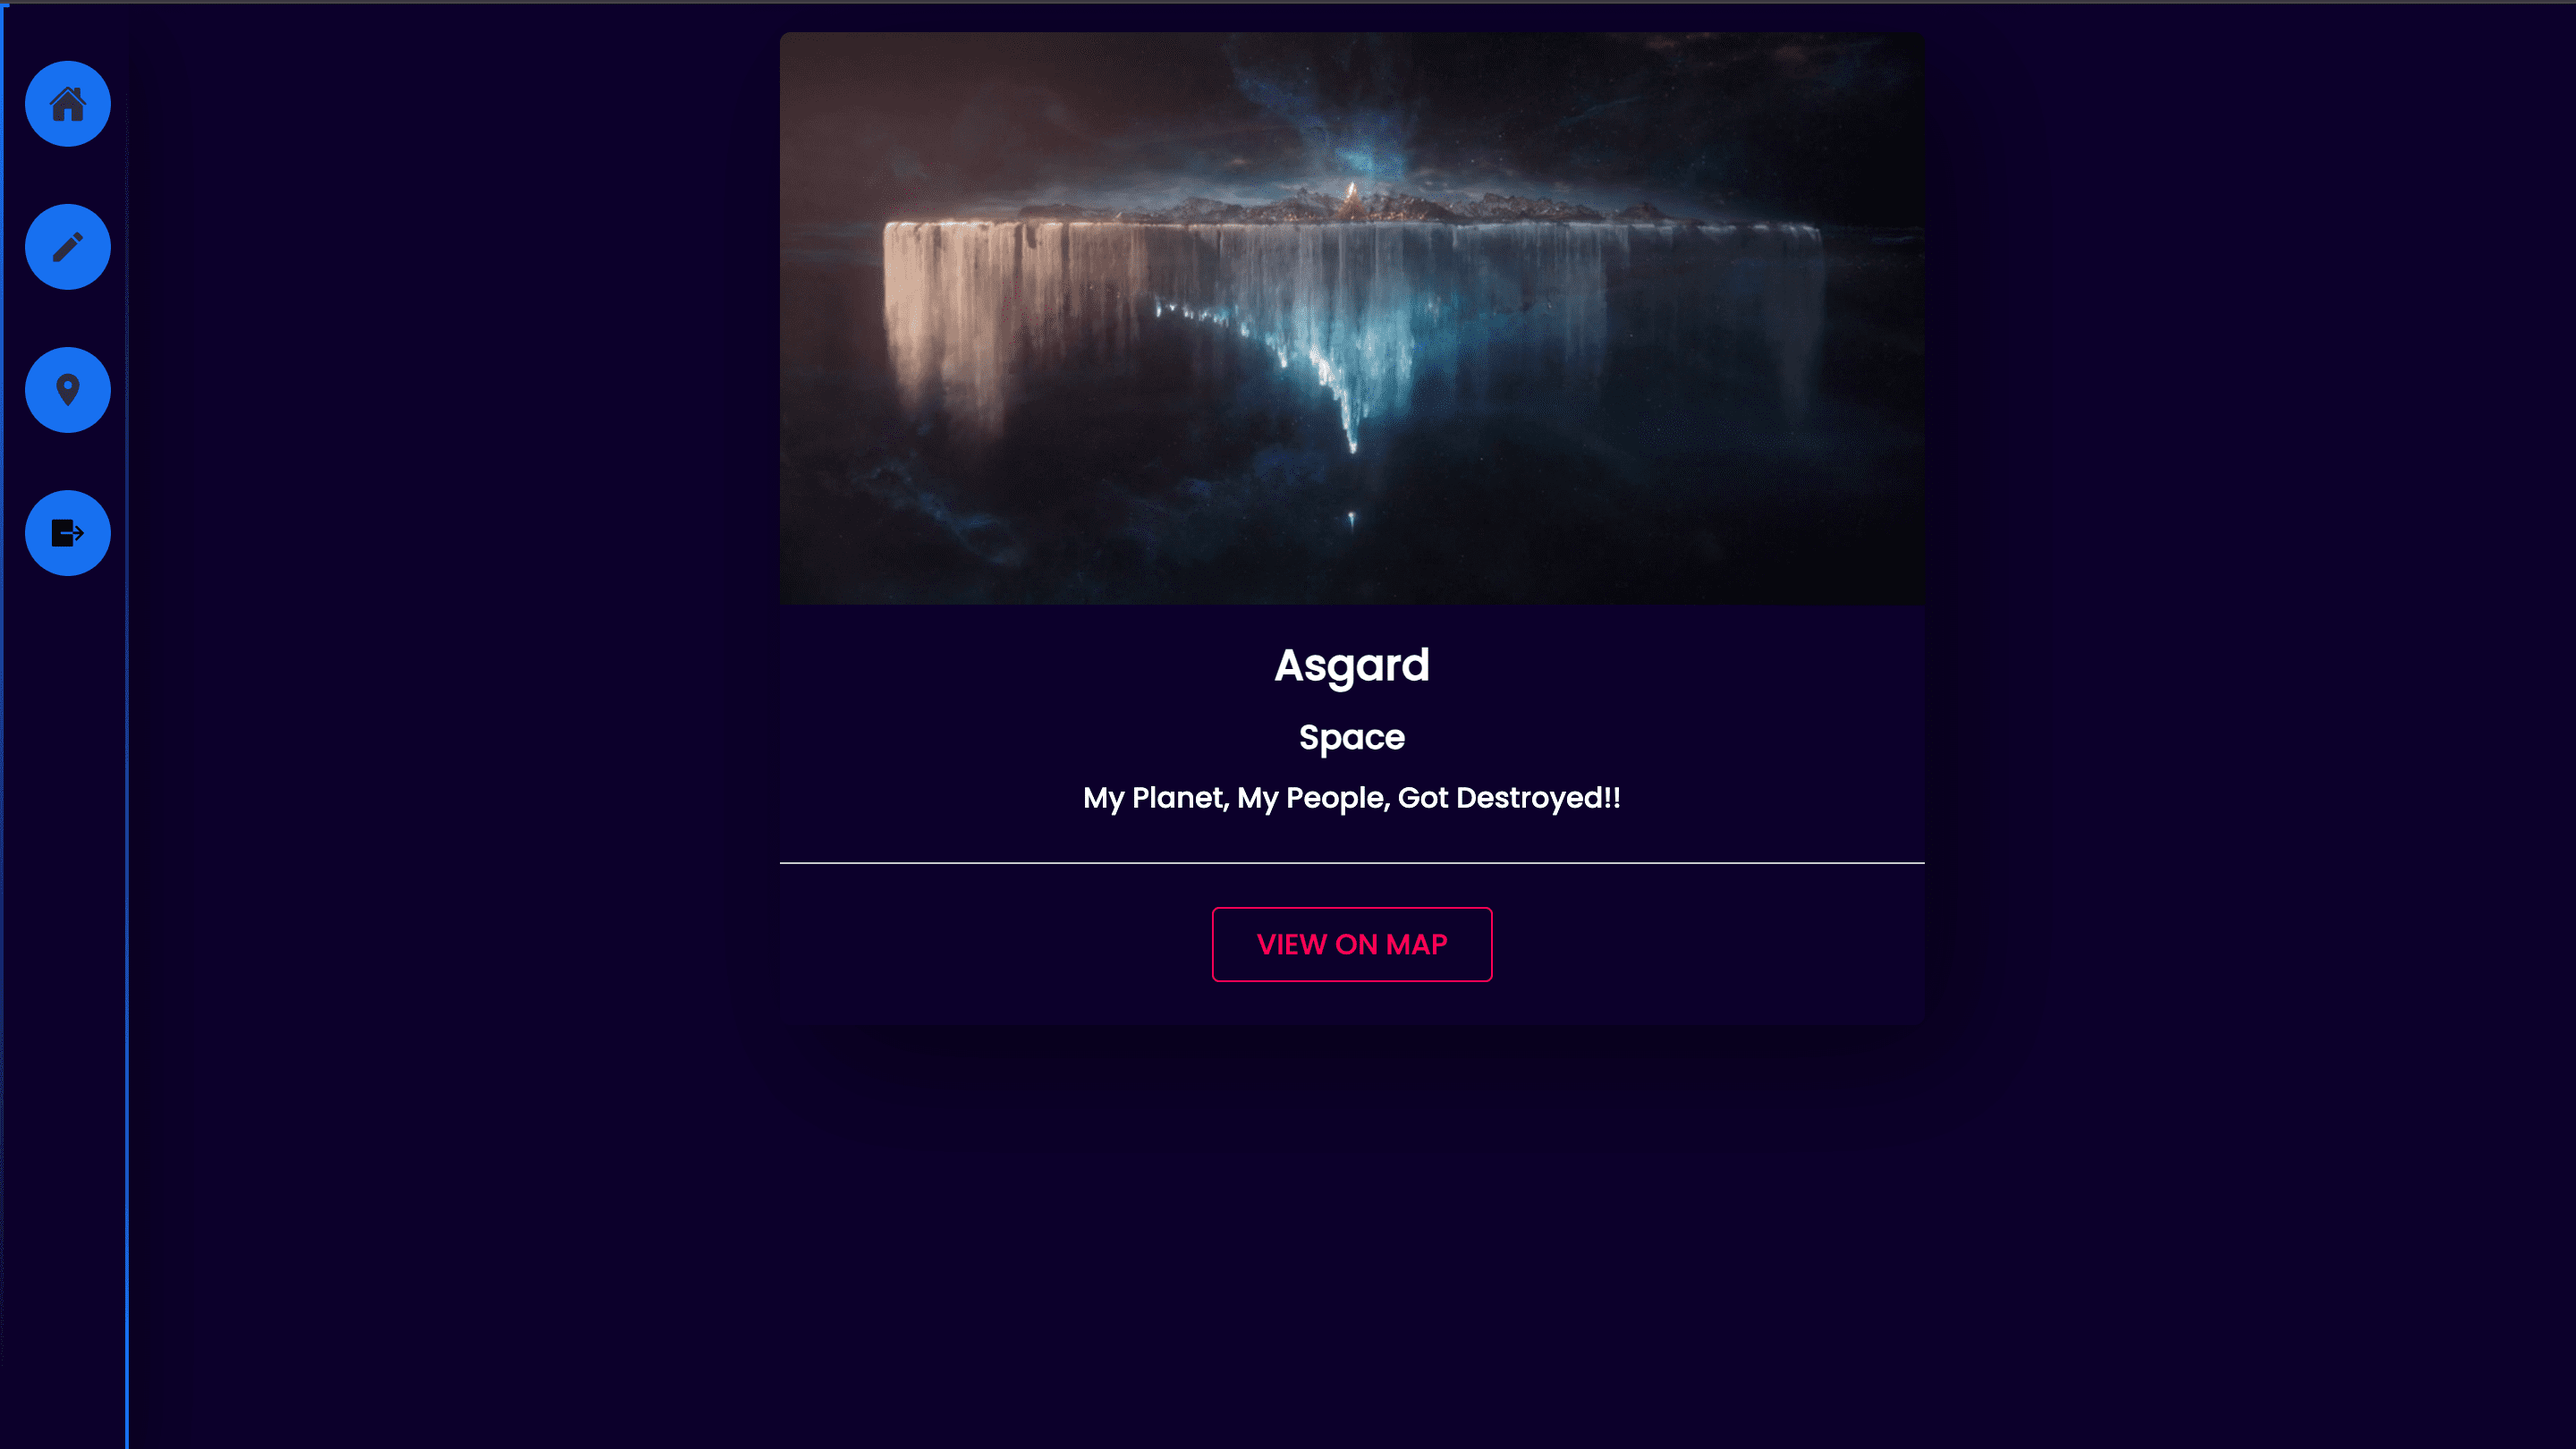
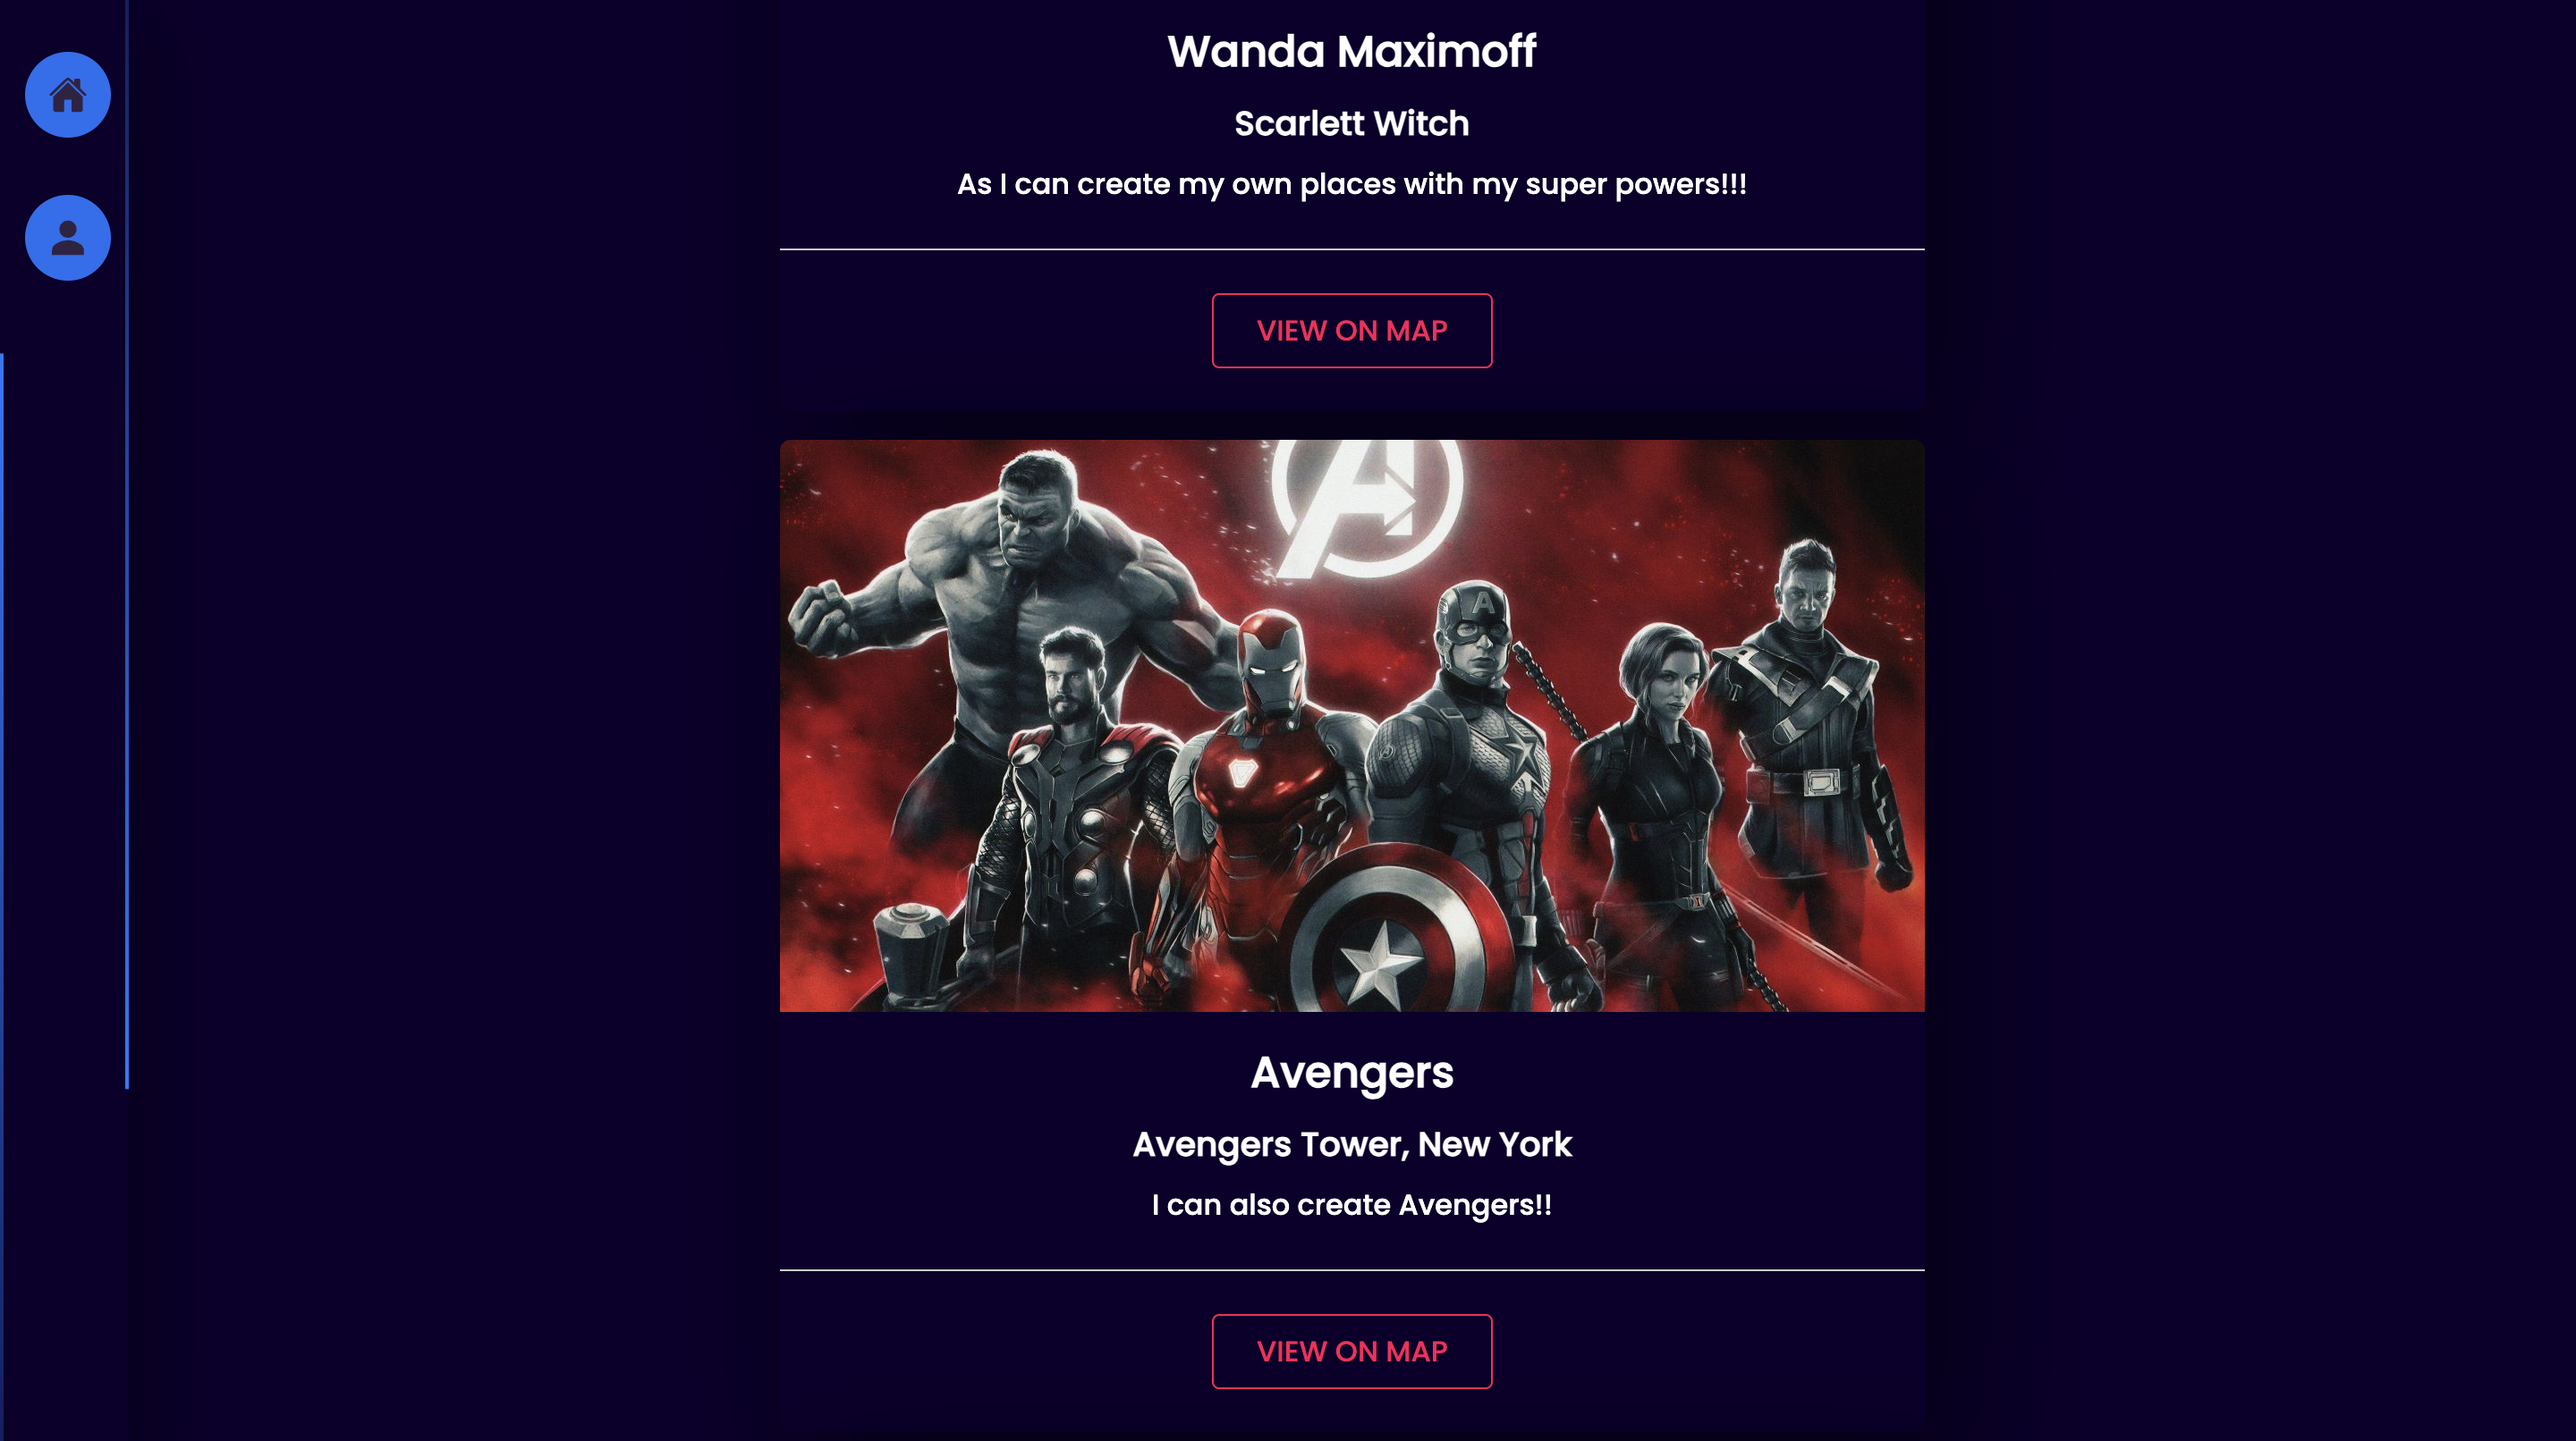
CSS Refactoring - Updated Projects

diff --git a/src/components/Projects/styles.css b/src/components/Projects/styles.css
@@ -1,0 +1,120 @@
+.projects {
+  display: flex;
+  flex-direction: column;
+  place-items: center;
+  gap: 2.4rem;
+  padding-top: 4rem;
+  padding-bottom: 4rem;
+}
+
+.projects h1 {
+  color: #102a42;
+  font-family: "Roboto", sans-serif;
+  font-size: 2.4rem;
+  letter-spacing: 2.4px;
+  text-decoration: underline #2caeba 0.3rem;
+  text-underline-offset: 0.7rem;
+  margin-bottom: 20px;
+}
+
+.projects-grid {
+  display: flex;
+  flex-direction: column;
+  place-items: center;
+  gap: 50px;
+}
+
+.project {
+  display: flex;
+  flex-direction: row;
+  width: 90%;
+}
+
+.reverse-flex {
+  flex-direction: row-reverse;
+}
+
+.project-img {
+  display: block;
+  object-fit: cover;
+  max-width: 800px;
+}
+
+.project-info {
+  background-color: white;
+  padding: 1rem 2rem;
+  display: flex;
+  flex-direction: column;
+  justify-content: center;
+}
+
+.project-info h2 {
+  color: #102a42;
+  font-family: "Josefin Sans", sans-serif;
+  font-size: 1.8rem;
+  line-height: 3rem;
+  text-align: center;
+}
+
+.project-info p {
+  color: #324d67;
+  font-family: "Open Sans", sans-serif;
+  margin-top: 1.5rem;
+  margin-bottom: 0.5rem;
+  font-size: 1.2rem;
+  text-align: justify;
+}
+
+.tech-used {
+  margin-top: 0.75rem;
+  display: flex;
+  flex-direction: row;
+  flex-wrap: wrap;
+  justify-content: flex-start;
+  gap: 1rem;
+  width: 100%;
+}
+
+.tech {
+  background-color: #dae2ec;
+  color: #617d98;
+  padding: 0.25rem 0.5rem;
+  font-family: "Open Sans", sans-serif;
+  letter-spacing: 1px;
+  border-radius: 0.3rem;
+  text-align: center;
+  width: fit-content;
+}
+
+.code-links {
+  display: flex;
+  gap: 1rem;
+  margin-top: 1rem;
+  font-size: 1.5rem;
+}
+
+.code-link {
+  color: #2caeba;
+  transition: all 0.3s ease;
+}
+
+.code-link:hover {
+  color: #222222;
+}
+
+@media (max-width: 900px) {
+  .project {
+    flex-direction: column;
+    width: 90%;
+  }
+
+  .project-img {
+    width: 100%;
+    max-width: 400px;
+  }
+
+  .project-info p {
+    margin-top: 0.9rem;
+    margin-bottom: 0.3rem;
+  }
+}

diff --git a/src/index.css b/src/index.css
@@ -2,8 +2,10 @@
 
 /* font-family: "Roboto", sans-serif; */
 /* font-family: "Open Sans", sans-serif; */
+/* font-family: "Josefin Sans", sans-serif; */
 
 @import url("https://fonts.googleapis.com/css?family=Open+Sans|Roboto:400,700&display=swap");
+@import url("https://fonts.googleapis.com/css2?family=Josefin+Sans:ital,wght@0,100..700;1,100..700&display=swap");
 
 * {
   box-sizing: border-box;
@@ -74,3 +76,67 @@ body {
   font-size: 1.5rem;
 }
 /* Error Page */
+
+/* Contact Page */
+.contact {
+  display: grid;
+  place-items: center;
+  padding: 5rem 0;
+}
+.contact-form {
+  background: white;
+  border-radius: 0.3rem;
+  text-align: center;
+  width: 90vw;
+  max-width: 35rem;
+  padding: 1.25rem 0.75rem;
+}
+.contact-form h3 {
+  color: #617d98;
+  font-family: "Roboto", sans-serif;
+  font-size: 2rem;
+  margin-bottom: 1rem;
+  letter-spacing: 2px;
+}
+.form-group {
+  padding-top: 1rem 1.5rem;
+}
+.form-control {
+  display: block;
+  width: 100%;
+  padding: 0.75rem 1rem;
+  border: none;
+  margin-bottom: 1.25rem;
+  background-color: #f1f5f8;
+  border-radius: 0.3rem;
+  text-transform: uppercase;
+  letter-spacing: 1.5px;
+}
+.form-control::placeholder {
+  font-family: "Open Sans", sans-serif;
+  color: hsl(209, 61%, 16%);
+  text-transform: uppercase;
+  letter-spacing: 1.5px;
+}
+.submit-btn {
+  display: block;
+  width: 100%;
+  background-color: #2caeba;
+  border: none;
+  color: #bff8fd;
+  cursor: pointer;
+  padding: 0.75rem 0.75rem;
+  font-size: 1rem;
+  margin-top: 1rem;
+  border-radius: 0.2rem;
+  text-transform: uppercase;
+  font-family: "Open Sans", sans-serif;
+  letter-spacing: 1px;
+  font-weight: 600;
+  transition: all 0.3s ease-in-out;
+}
+.submit-btn:hover {
+  color: hsl(184, 91%, 17%);
+  background-color: hsl(184, 80%, 74%);
+}
+/* Contact Page */

diff --git a/src/components/Projects/index.js b/src/components/Projects/index.js
@@ -1,20 +1,22 @@
 import React from "react";
-import { projects } from "../../data/projects";
 import { SiGithub } from "react-icons/si";
 import { FiExternalLink } from "react-icons/fi";
 import { Link } from "react-router-dom";
+import "./styles.css";
 
-export const HomeProjects = () => {
-  const newProjects = projects.slice(0, 3);
+export const Projects = ({ projects }) => {
   return (
-    <section className="home-projects">
-      <h3>Featured Projects</h3>
+    <section className="projects">
+      <h1>Featured Projects</h1>
       <div className="projects-grid">
-        {newProjects.map((project) => {
+        {projects.map((project, index) => {
           const { id, title, img, details, technologies, sourceCode, link } =
             project;
           return (
-            <article key={id} className="project">
+            <article
+              key={id}
+              className={index % 2 === 0 ? "project" : "project reverse-flex"}
+            >
               <div className="img-holder">
                 <img src={img} alt="" className="project-img" />
               </div>

diff --git a/src/App.js b/src/App.js
@@ -4,7 +4,7 @@ import { BrowserRouter as Router, Route, Routes } from "react-router-dom";
 // import pages
 import { Home } from "./pages/Home";
 import { About } from "./pages/About";
-import { Projects } from "./pages/Projects";
+import { ProjectsPage } from "./pages/ProjectsPage";
 import { Contact } from "./pages/Contact";
 // import { OpenSource } from "./pages/OpenSource";
 import { DSAStats } from "./pages/DSAStats";
@@ -27,7 +27,7 @@ const App = () => {
         <Route path="/about" Component={About} />
         {/* <Route path="/opensource" Component={<OpenSource />} /> */}
         <Route path="/dsastats" Component={DSAStats} />
-        <Route path="/projects" Component={Projects} />
+        <Route path="/projects" Component={ProjectsPage} />
         <Route path="/contact" Component={Contact} />
         <Route path="/pullrequests" Component={AllPRs} />
         <Route path="/issues" Component={AllIssues} />

diff --git a/src/pages/Home.js b/src/pages/Home.js
@@ -1,15 +1,16 @@
 import React from "react";
 import { Experience } from "../components/Experience";
 import { Hero } from "../components/Hero";
-// import { HomeProjects } from "../components/HomeProjects";
 import SkillSection from "../components/SkillSection";
+import { Projects } from "../components/Projects";
+import { projects } from "../data/projects";
 
 export const Home = () => {
   return (
     <div className="home">
       <Hero />
       <Experience />
-      {/* <HomeProjects /> */}
+      <Projects projects={projects.slice(0, 4)} />
       <SkillSection />
     </div>
   );

diff --git a/src/components/Experience/styles.css b/src/components/Experience/styles.css
@@ -34,7 +34,7 @@
   text-align: center;
   width: fit-content;
   text-transform: capitalize;
-  font-size: 1.2rem;
+  font-size: 1.3rem;
   font-weight: 550;
   letter-spacing: 2px;
   padding: 0.75rem 0.75rem;
@@ -61,7 +61,7 @@
 }
 .job-details h3 {
   color: #102a42;
-  font-size: 1.6rem;
+  font-size: 1.8rem;
   letter-spacing: 2px;
   font-family: "Roboto", sans-serif;
 }
@@ -127,5 +127,8 @@
   .job-info {
     width: 100%;
     place-self: center;
+  }
+  .btn-container {
+    width: 100vw;
   }
 }

diff --git a/src/data/projects.js b/src/data/projects.js
@@ -25,7 +25,7 @@ export const projects = [
   },
   {
     id: uuidv4(),
-    title: "ToraLabs - Freelance Project ",
+    title: "ToraLabs - Freelance",
     img: toralabs,
     details:
       "Revamped the UI of the landing page and created a product page (Device Info) from scratch, Created UI elements like Sliders(using Swiper), Animated Cards, Navbar using plain CSS, Used Email JS to send the contact form responses directly to the client’s email",

diff --git a/src/pages/ProjectsPage.js b/src/pages/ProjectsPage.js
@@ -1,0 +1,7 @@
+import React from "react";
+import { projects } from "../data/projects";
+import { Projects } from "../components/Projects";
+
+export const ProjectsPage = () => {
+  return <Projects projects={projects} />;
+};
